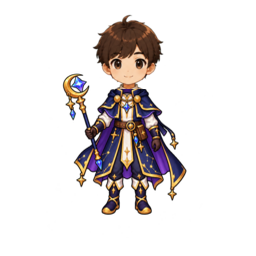
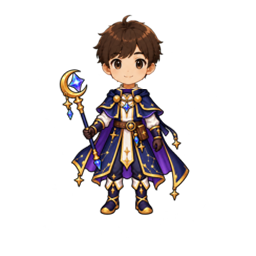
Replace split outfit warp with uniform source fit

Changed region(s): [[0.2188, 0.25, 0.75, 0.8438]]

diff --git a/avatar-basic-pack-contract-selftest.js b/avatar-basic-pack-contract-selftest.js
@@ -52,7 +52,10 @@ assert.ok(outfitBake.includes('TARGET_NECKLINE_Y = 89'),'mass-production outfits
 assert.ok(outfitBake.includes('FIXED_DECORATION_TOP_Y = 58'),'vertical normalization must preserve the shared decoration top');
 assert.ok(outfitBake.includes('def body_center_x'),'mass-production bake must measure the shared torso window');
 assert.ok(outfitBake.includes('def anatomical_top_y'),'mass-production bake must measure collar and both shoulders');
-assert.ok(outfitBake.includes('def normalize_vertical_landmarks'),'mass-production bake must normalize upper-body proportions while feet stay fixed');
+assert.ok(outfitBake.includes('Never split or non-uniformly warp a finished outfit'),'mass-production bake must preserve authored artwork without seam-producing warps');
+assert.ok(outfitBake.includes('def normalize_uniform_body_scale'),'production bake must use one seam-free uniform template fit');
+assert.ok(!outfitBake.includes("img.crop((0, source_y"),'production bake must not split completed outfit artwork at the neckline');
+assert.ok(outfitBake.includes('SOURCE_OUTFIT_DIR'),'production bake must always rebuild from immutable source art');
 assert.ok(outfitBake.includes('step = round(TARGET_BODY_CENTROID - current_x)'),'mass-production bake must normalize X automatically');
 for(const itemSpecific of ['SOURCE_X_ADJUST','NECKLINE_RAISE'])assert.ok(!outfitBake.includes(itemSpecific),`item-specific correction must not remain: ${itemSpecific}`);
 assert.ok(!fs.existsSync(path.join(root,'server/avatar-shop-pack-v5.js')),'temporary v5 catalog must be removed');

diff --git a/scripts/bake-avatar-outfit-v2.py b/scripts/bake-avatar-outfit-v2.py
@@ -5,6 +5,7 @@ from PIL import Image
 ROOT = Path(__file__).resolve().parents[1]
 RUNTIME_DIR = ROOT / "assets" / "avatar-runtime"
 OUTFIT_DIR = RUNTIME_DIR / "production" / "outfits"
+SOURCE_OUTFIT_DIR = RUNTIME_DIR / "production" / "sources" / "outfits"
 BASE_FILES = [RUNTIME_DIR / "base-boy-v2.png", RUNTIME_DIR / "base-girl-v2.png"]
 FILES = [
     "forest-archer.png",
@@ -110,29 +111,32 @@ def anatomical_top_y(img: Image.Image) -> int:
     return int(median(rows))
 
 
-def normalize_vertical_landmarks(img: Image.Image) -> Image.Image:
-    """Align collar/shoulders to Y=89 while keeping decoration top and feet fixed."""
-    source_y = anatomical_top_y(img)
-    if source_y <= TARGET_NECKLINE_Y:
+def normalize_uniform_body_scale(img: Image.Image) -> Image.Image:
+    """Fit neckline and feet with one uniform transform anchored at the feet.
+
+    Uniform scaling preserves the finished drawing. Unlike the retired split
+    warp, it cannot create a horizontal join through collars, capes, or armor.
+    """
+    source_neckline = anatomical_top_y(img)
+    if source_neckline <= TARGET_NECKLINE_Y + 1:
         return img
-    out = Image.new("RGBA", (MASTER, MASTER), (0, 0, 0, 0))
-    out.alpha_composite(img.crop((0, 0, MASTER, FIXED_DECORATION_TOP_Y)), (0, 0))
-    upper = img.crop((0, FIXED_DECORATION_TOP_Y, MASTER, source_y))
-    upper = upper.resize(
-        (MASTER, TARGET_NECKLINE_Y - FIXED_DECORATION_TOP_Y),
-        Image.Resampling.LANCZOS,
+    source_height = TARGET_FOOT_Y - source_neckline
+    target_height = TARGET_FOOT_Y - TARGET_NECKLINE_Y
+    scale = target_height / source_height
+    if not 0.90 <= scale <= 1.15:
+        raise RuntimeError(f"authored body scale outside template tolerance: {scale:.3f}")
+    inverse = 1.0 / scale
+    cx = TARGET_BODY_X
+    cy = TARGET_FOOT_Y
+    return img.transform(
+        (MASTER, MASTER),
+        Image.Transform.AFFINE,
+        (inverse, 0, cx - cx * inverse, 0, inverse, cy - cy * inverse),
+        Image.Resampling.BICUBIC,
     )
-    out.alpha_composite(upper, (0, FIXED_DECORATION_TOP_Y))
-    body = img.crop((0, source_y, MASTER, TARGET_FOOT_Y + 1))
-    body = body.resize(
-        (MASTER, TARGET_FOOT_Y - TARGET_NECKLINE_Y + 1),
-        Image.Resampling.LANCZOS,
-    )
-    out.alpha_composite(body, (0, TARGET_NECKLINE_Y))
-    return out
 
 
-def bake(path: Path, target_foot_y: int):
+def bake(source_path: Path, output_path: Path, target_foot_y: int):
     """Anchor authored artwork only; never synthesize garment pixels.
 
     The previous migration pass copied nearest outfit colours into transparent
@@ -142,9 +146,9 @@ def bake(path: Path, target_foot_y: int):
     clear only the face opening. No dilation, nearest-colour fill, or base-mask
     sealing is permitted here.
     """
-    img = Image.open(path).convert("RGBA")
+    img = Image.open(source_path).convert("RGBA")
     if img.size != (MASTER, MASTER):
-        raise RuntimeError(f"{path.name}: expected 256x256, got {img.size}")
+        raise RuntimeError(f"{source_path.name}: expected 256x256, got {img.size}")
     foot_y = visible_foot_y(img)
     # The approved source art is already authored around body X=128.  Swords,
     # staffs, bows and capes are deliberately asymmetric, so alpha-derived X
@@ -152,8 +156,10 @@ def bake(path: Path, target_foot_y: int):
     dy = target_foot_y - foot_y
     vertical = translate(img, 0, dy)
     vertical = protect_face(vertical)
-    vertical = normalize_vertical_landmarks(vertical)
+    vertical = normalize_uniform_body_scale(vertical)
     vertical = protect_face(vertical)
+    # Never split or non-uniformly warp a finished outfit. Production artwork
+    # gets at most one uniform, foot-anchored fit from its immutable source.
     measured_x = body_center_x(vertical)
     baked = vertical
     dx = 0
@@ -167,21 +173,22 @@ def bake(path: Path, target_foot_y: int):
         baked = protect_face(translate(baked, step, 0))
         dx += step
     if abs(dx) > 36 or abs(dy) > 48:
-        raise RuntimeError(f"{path.name}: source outside migration tolerance dx={dx}, dy={dy}")
+        raise RuntimeError(f"{source_path.name}: source outside migration tolerance dx={dx}, dy={dy}")
     final_x = body_center_x(baked)
     if abs(final_x - TARGET_BODY_CENTROID) > 0.75:
-        raise RuntimeError(f"{path.name}: body center failed standard template: {final_x:.2f}")
+        raise RuntimeError(f"{source_path.name}: body center failed standard template: {final_x:.2f}")
     final_top = anatomical_top_y(baked)
     if final_top > TARGET_NECKLINE_Y + 1:
-        raise RuntimeError(f"{path.name}: neckline/shoulder failed standard template: {final_top}")
-    baked.save(path, "PNG", optimize=True)
-    print(f"{path.name}: bodyCenter {measured_x:.2f}->{final_x:.2f}, footY {foot_y}->{target_foot_y}, dx={dx}, dy={dy}")
+        raise RuntimeError(f"{source_path.name}: authored neckline misses template: {final_top}")
+    output_path.parent.mkdir(parents=True, exist_ok=True)
+    baked.save(output_path, "PNG", optimize=True)
+    print(f"{source_path.name}: bodyCenter {measured_x:.2f}->{final_x:.2f}, footY {foot_y}->{target_foot_y}, dx={dx}, dy={dy}")
 
 
 def main():
     target_foot_y = approved_bases()
     for name in FILES:
-        bake(OUTFIT_DIR / name, target_foot_y)
+        bake(SOURCE_OUTFIT_DIR / name, OUTFIT_DIR / name, target_foot_y)
 
 
 if __name__ == "__main__":
